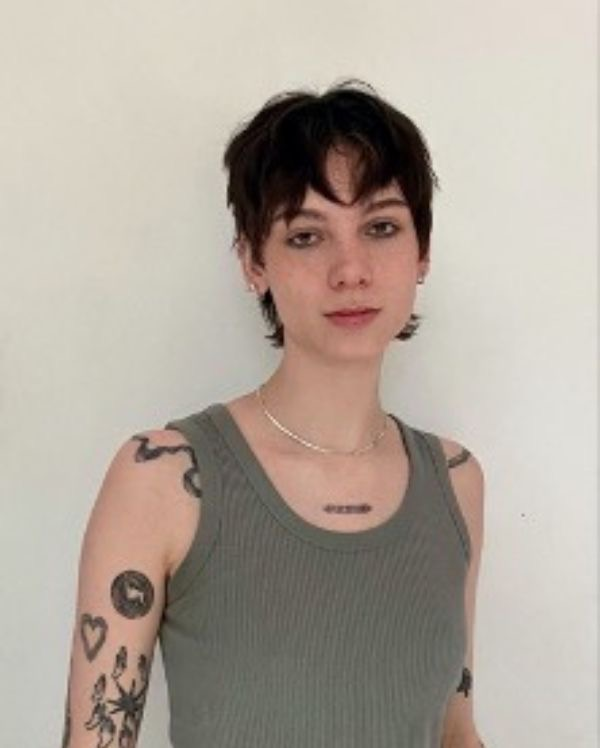
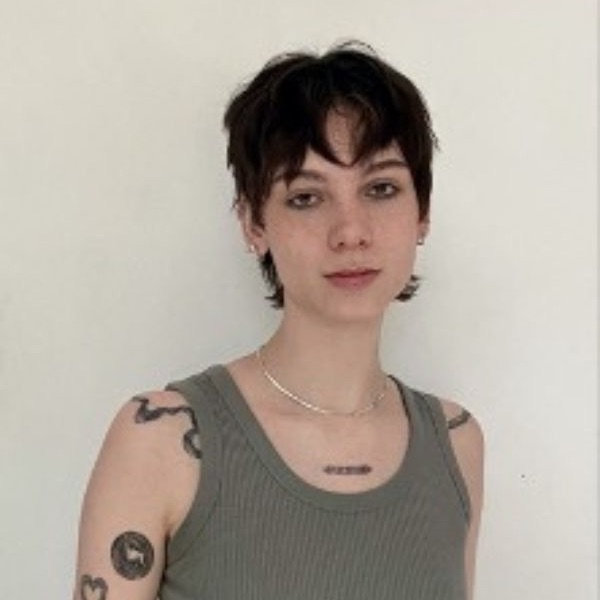
Make artist images square

Changed region(s): [[0.09, 0.24, 0.81, 1.0], [0.36, 0.06, 0.75, 0.24], [0.36, 0.27, 0.39, 0.3]]

diff --git a/src/pages/Persevere2023Page.tsx b/src/pages/Persevere2023Page.tsx
@@ -44,7 +44,7 @@ export const Persevere2023Page = () => {
                 >
                   <StyledText variant="artistName">{artist.name}</StyledText>
                 </a>
-                <StyledDiv my="10px" display="flex" height="40vh" width="50%">
+                <StyledDiv my="10px" display="flex" width="100%">
                   <img
                     src={require(`../images/artists/2023/${artist.img}.jpg`)}
                     style={{
